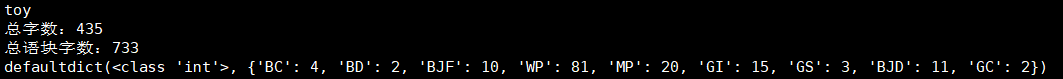
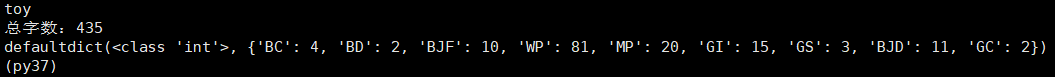
添加了统计部分代码

diff --git a/label_count_05.py b/label_count_05.py
@@ -1,0 +1,54 @@
+import os
+import re
+
+
+def main():
+    # 待统计的文件路径
+    path = "./result/label/"
+
+    dict = {'BC': 0, 'BD': 0, 'GS': 0, 'GI': 0,
+            'GC': 0, 'BJD': 0, 'BJF': 0, 'MP': 0, 'WP': 0}
+    files = os.listdir(path)
+    files.sort()
+    fout = open("result/statistics.txt", "w")
+    for file in files:
+        file_name = file.split("_")[0]
+        print("processing " + file)
+        # print("mistake:")
+        num = 0
+        dict_chunk = {'BC': 0, 'BD': 0, 'GS': 0, 'GI': 0,
+                      'GC': 0, 'BJD': 0, 'BJF': 0, 'MP': 0, 'WP': 0}
+        with open(path + file, "r") as f:
+            lines = f.readlines()
+        for line in lines:
+            if line == "\n":
+                continue
+            chunks = line.strip().split()
+            for chunk in chunks:
+                chunk = chunk.strip()
+                try:
+                    text = re.search('[\u4E00-\u9FA5]+', chunk).group()
+                    label = re.search('[A-Z]+', chunk).group()
+                    # print(text, label)
+                    num += len(text)
+                    dict_chunk[label] += 1
+                except:
+                    print("mistake: " + chunk)
+
+        for key in dict_chunk.keys():
+            dict[key] += dict_chunk[key]
+
+        fout.write(file_name + "\n")
+        # fout.write("总字数：\n")
+        fout.write("总语块字数：" + str(num) + "\n")
+        fout.write("总语块数：" + str(sum(dict_chunk.values())) + "\n")
+        fout.write(str(dict_chunk) + "\n")
+        fout.write("\n")
+
+    fout.close()
+
+    print(dict)
+
+
+if __name__ == "__main__":
+    main()
